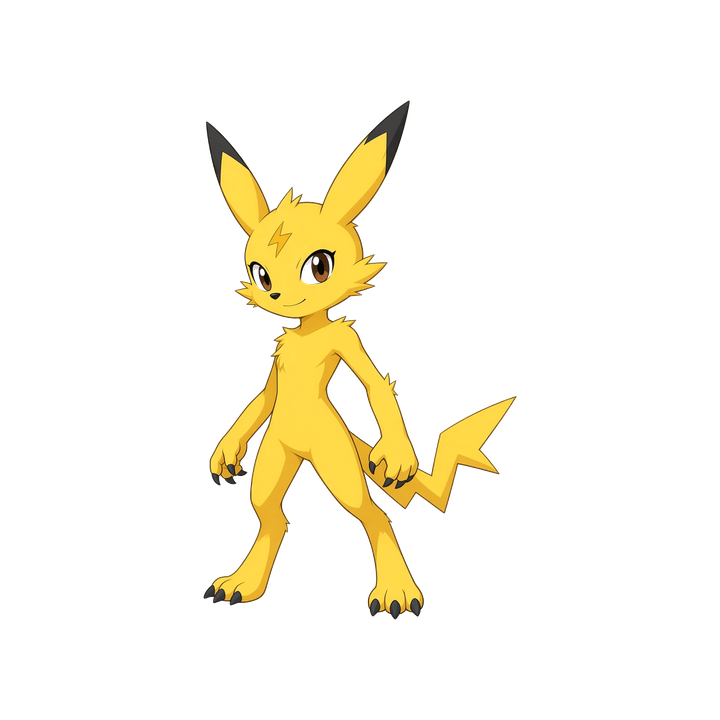
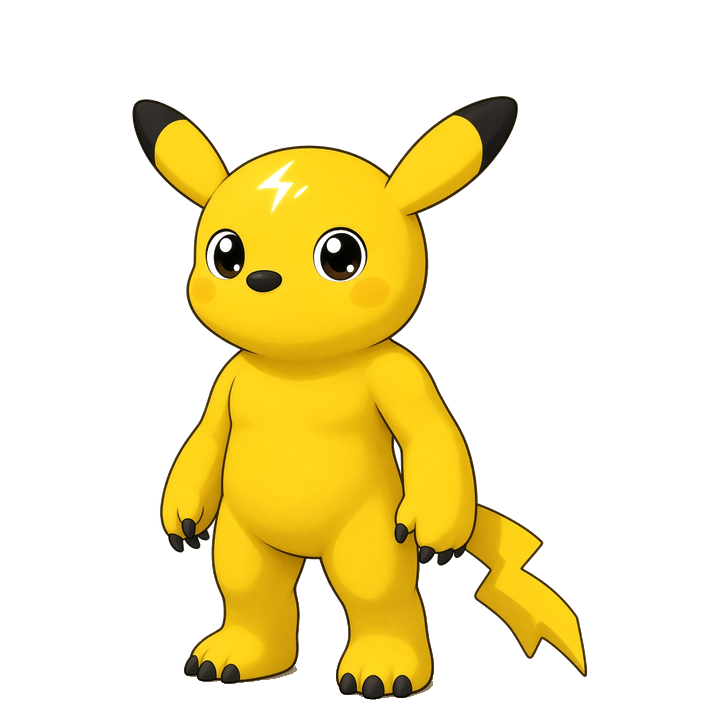
Redraw Volt as a round little fighter.
No fox muzzle. Big head, short arms, solid legs, lightning tail.

Changed region(s): [[0.1833, 0.1222, 0.825, 0.9778]]

diff --git a/src/lib/desk/quest-bag.ts b/src/lib/desk/quest-bag.ts
@@ -86,7 +86,7 @@ const cute: Record<SpeciesId, string[]> = {
   pip: ["/field/cut/pip.png?v=1", "/field/cut/grove.png?v=1", "/field/cut/arbor.png?v=1", "/field/cut/monarch.png?v=1"],
   coal: ["/field/cut/coal.png?v=1", "/field/cut/blaze.png?v=1", "/field/cut/inferno.png?v=1", "/field/cut/drake.png?v=1"],
   dew: ["/field/cut/dew.png?v=1", "/field/cut/coral.png?v=1", "/field/cut/levi.png?v=1", "/field/cut/kraken.png?v=1"],
-  spark: ["/field/cut/spark.png?v=1", "/field/cut/volt.png?v=2", "/field/cut/storm.png?v=1", "/field/cut/tempest.png?v=1"],
+  spark: ["/field/cut/spark.png?v=1", "/field/cut/volt.png?v=4", "/field/cut/storm.png?v=1", "/field/cut/tempest.png?v=1"],
 };
 
 export function monSrc(species: SpeciesId, stage: 0 | 1 | 2 | 3) {
